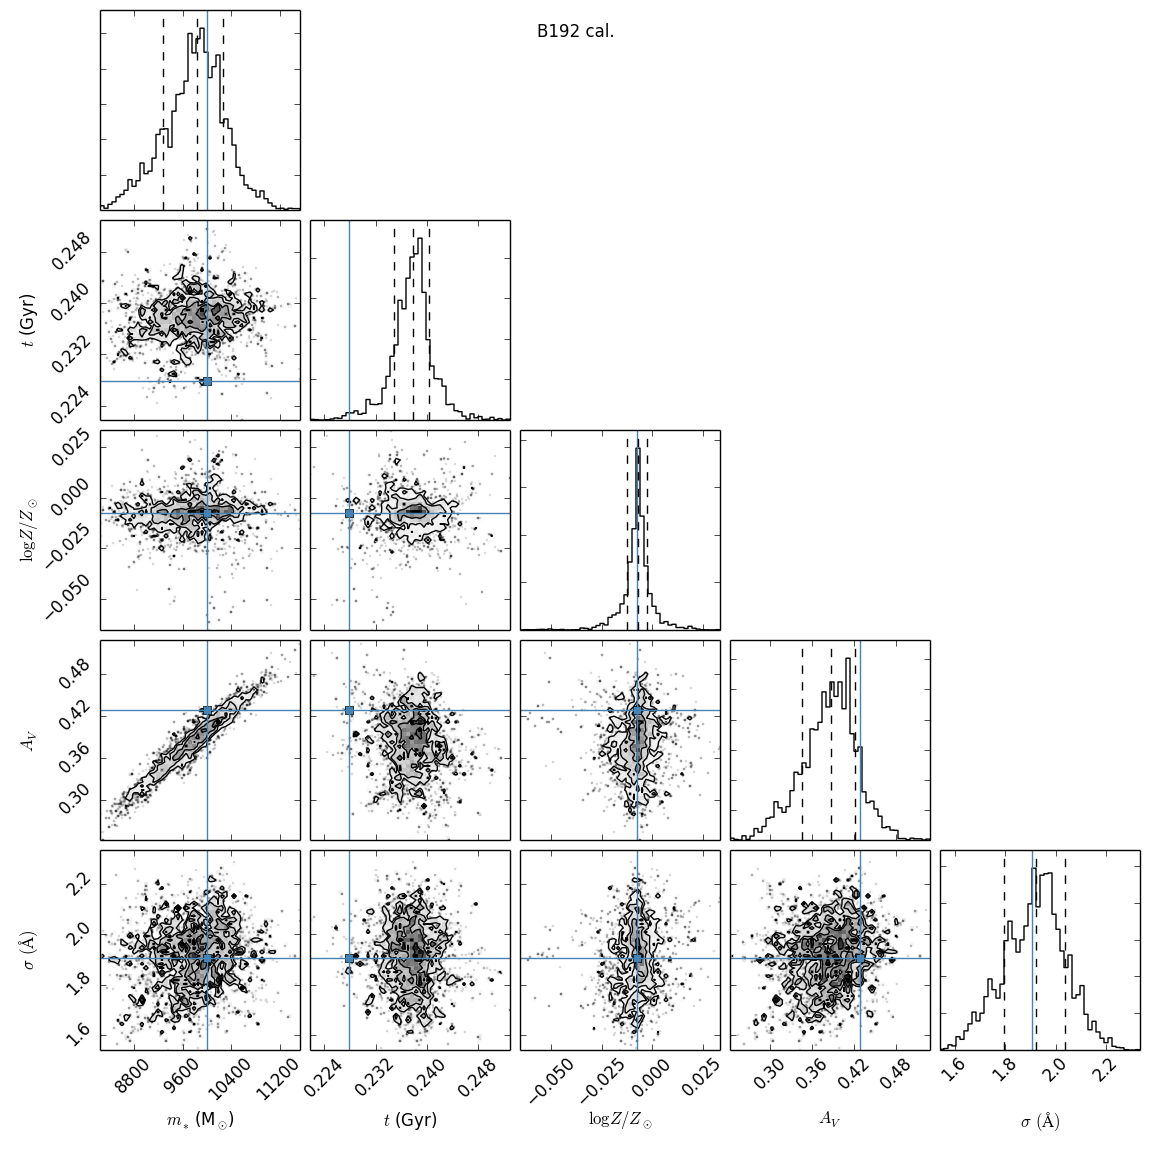
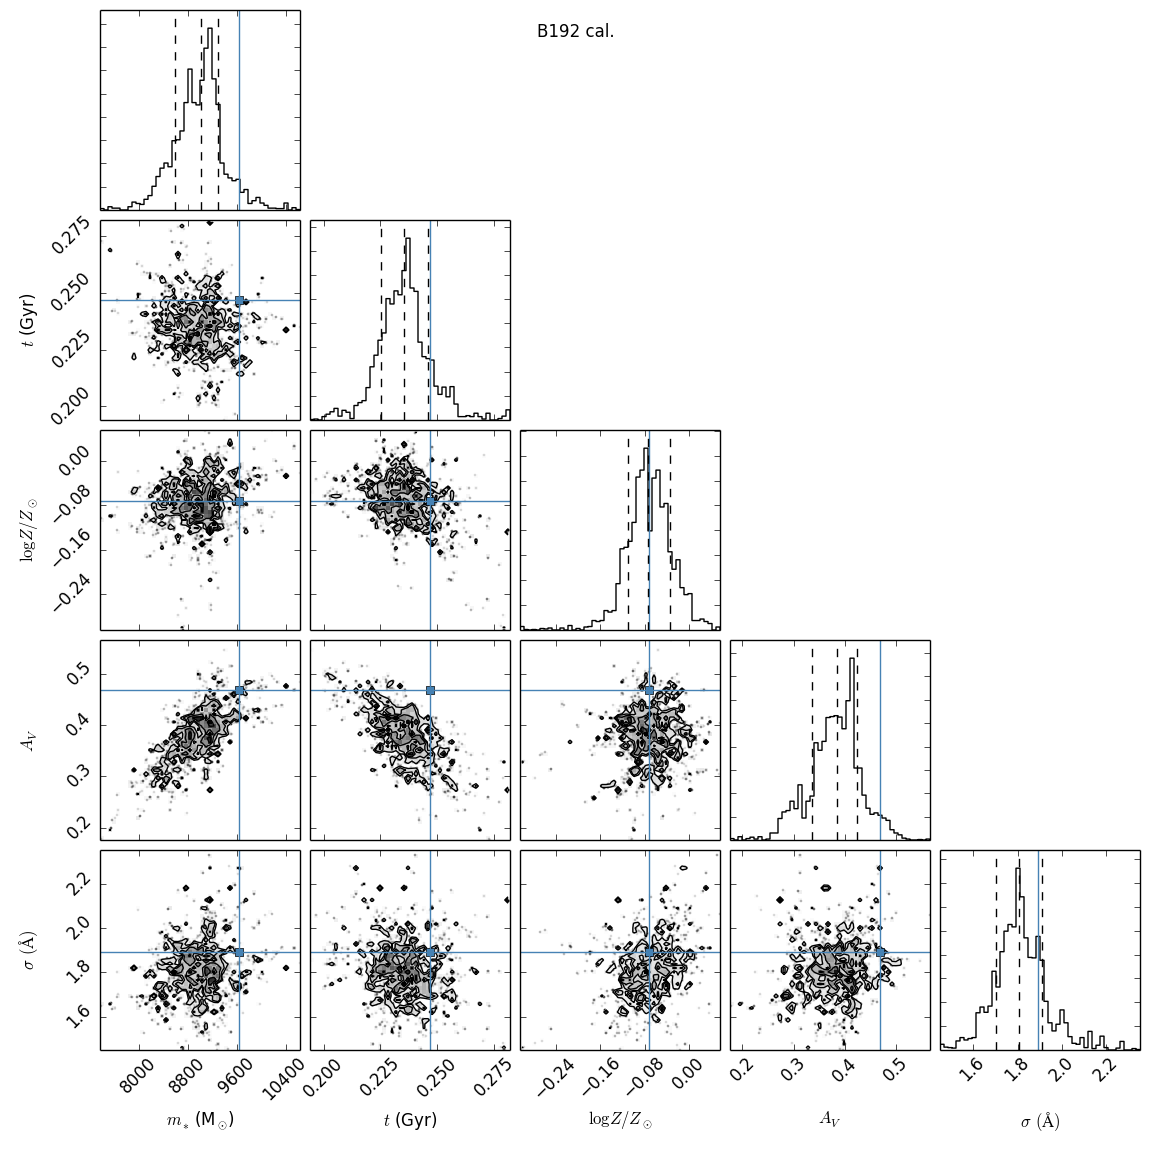
changes to figure making script

diff --git a/tex/figures/make_figures.py b/tex/figures/make_figures.py
@@ -4,10 +4,10 @@ import matplotlib.pyplot as pl
 from matplotlib import gridspec
 import triangle
 
-import diagnostics
-from diagnostics import model_comp as mcomp
+import bsfh.read_results as diagnostics
+from bsfh.read_results import model_comp as mcomp
 
-import sps_basis
+from bsfh import sps_basis
 sps = sps_basis.StellarPopBasis(smooth_velocity=False)
 
 pardict = {}
@@ -267,7 +267,7 @@ def corner_plot(results, showpars=None, start=0, thin=1):
     """
 
     # pull out the parameter names and flatten the thinned chains
-    parnames = np.array(diagnostics.theta_labels(results['model'].theta_desc))
+    parnames = np.array(results['model'].theta_labels())
     flatchain = results['chain'][:,start::thin,:]
     flatchain = flatchain.reshape(flatchain.shape[0] * flatchain.shape[1],
                                   flatchain.shape[2])
@@ -422,7 +422,11 @@ if __name__ == '__main__':
     #res = [rdir+'b192-g242.225.cal_1407376313.sampler01']
     #res = [rdir+'b192-g242.225.cal_1407608570.sampler01']
     #res = [rdir+'b192-g242.225.cal_1409443437.sampler01']
-    res = [rdir+'b192-g242.225.cal_1409477803.sampler01']
+    res = [#rdir+'b192-g242.225.cal_1407608570.sampler01']
+           #rdir+'b192-g242.225.cal_1409443437.sampler01']
+           #rdir+'b192-g242.225.cal_1409477803.sampler01',
+           #rdir+'b192-g242.225.cal_1409534549.sampler01',
+           rdir+'b192-g242.225.cal_1412345250.sampler01']
     inlog = True
 
     name = ['B192 cal.', 'B192 no cal.']
@@ -430,6 +434,7 @@ if __name__ == '__main__':
     for i,r in enumerate(res):
         sf, mf = r+'_mcmc', r+'_model'
         result, pr, model = diagnostics.read_pickles(sf, model_file = mf)
+        result['model'] = model
         #best = np.argmin([p.fun for p in powell_guesses])
         #result['optimizer_results'] = pr[best]
         of = result['run_params']['outfile'].split('/')[-1]
